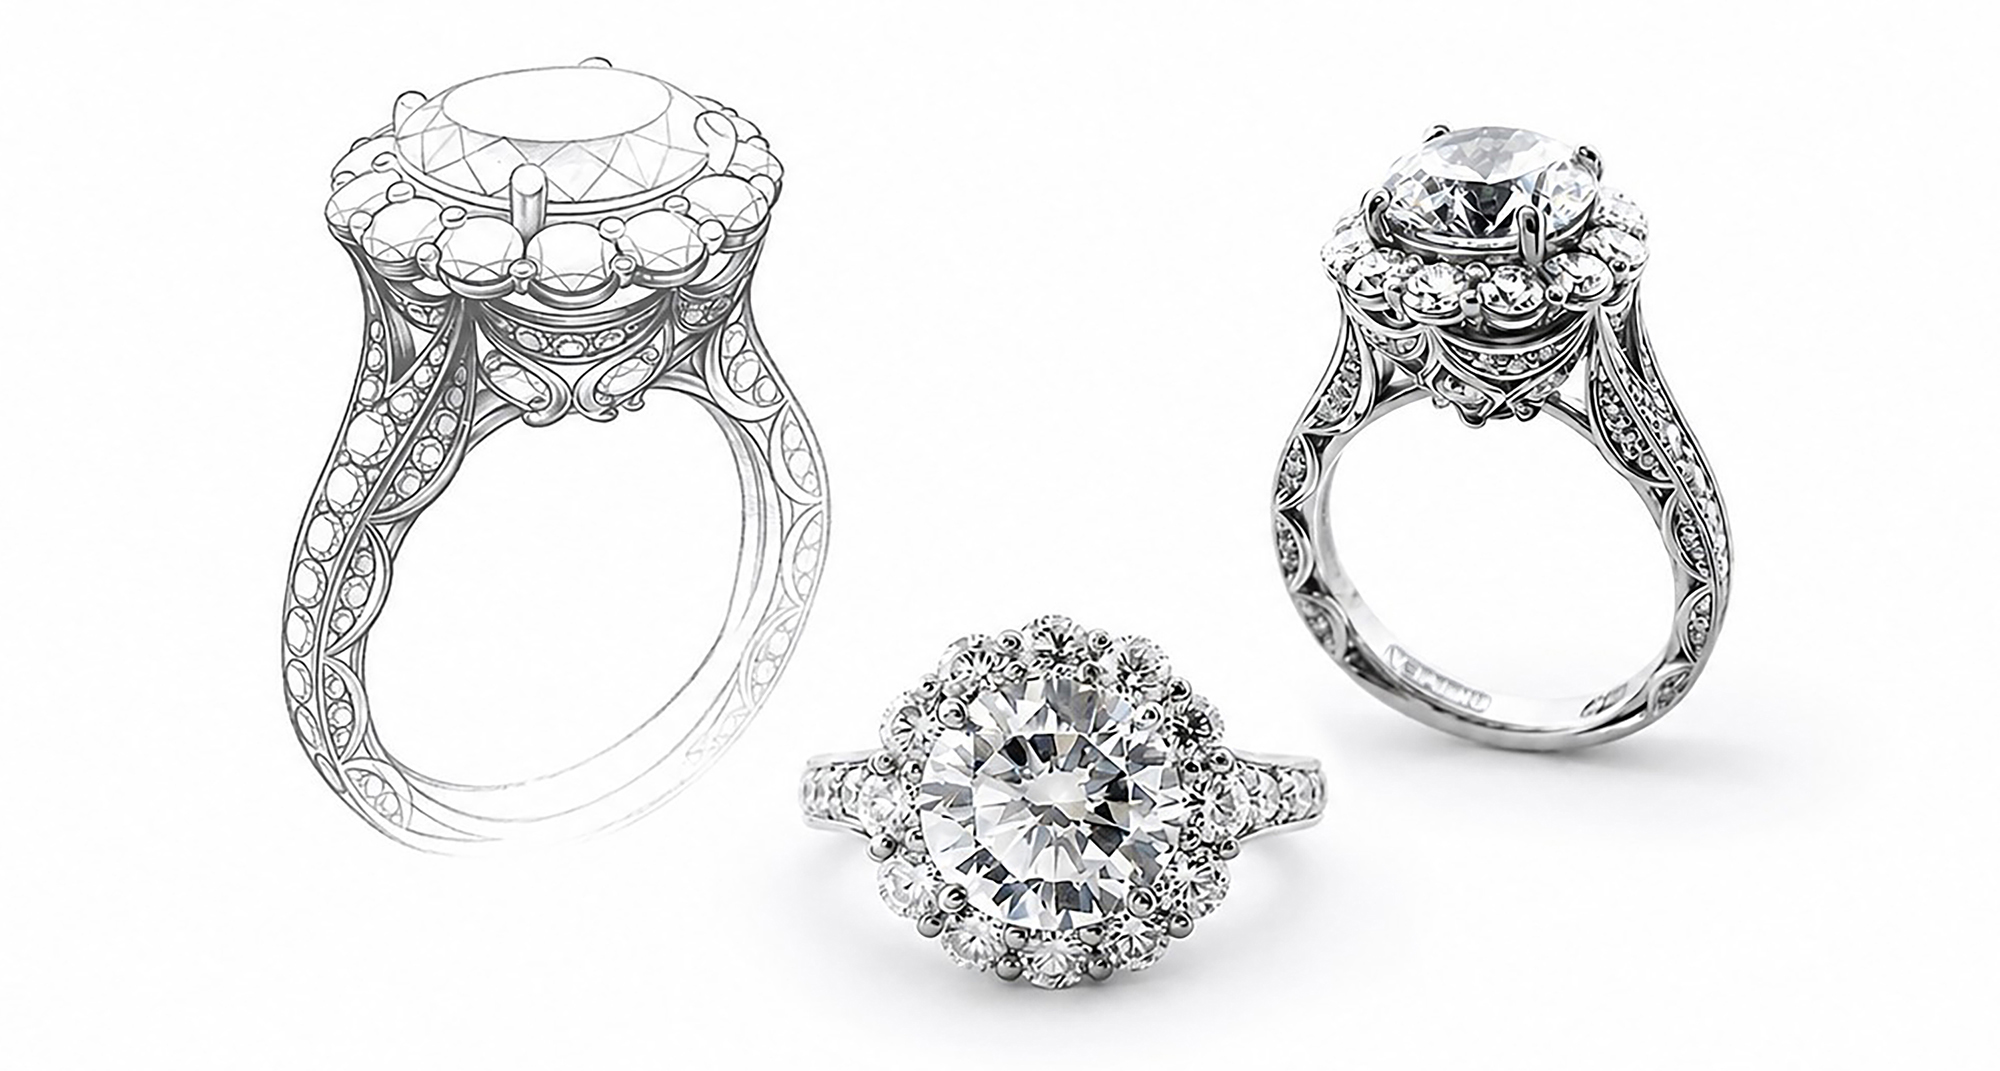
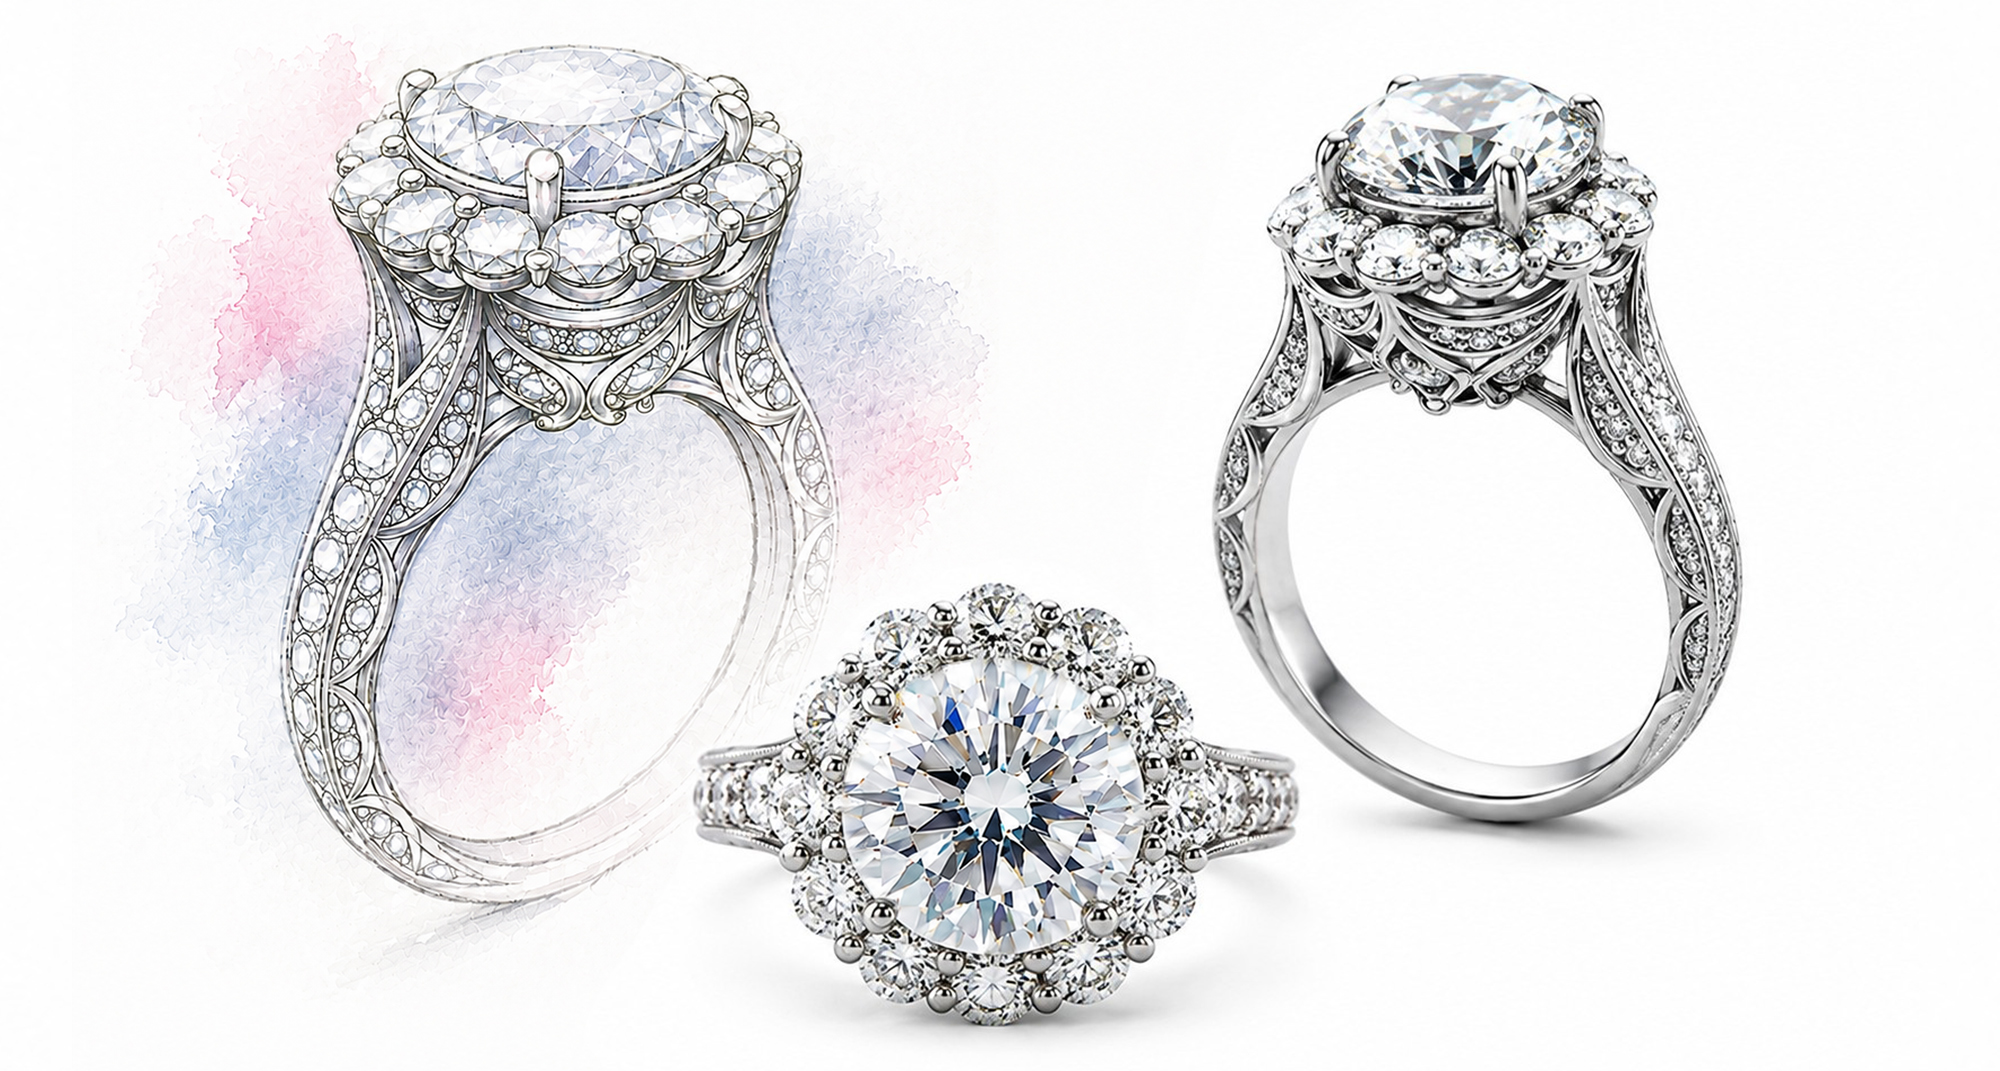
Update portfolio images and social links

Changed region(s): [[0.093, 0.0308, 0.899, 0.986], [0.279, 0.7395, 0.31, 0.7703]]

diff --git a/src/Contact.jsx b/src/Contact.jsx
@@ -576,7 +576,9 @@ export default function Contact() {
           </div>
 
           <nav className="desktopNav">
-            <span onClick={() => navigate("/sketches-design")}>Sketches & Design</span>
+            <span onClick={() => navigate("/sketches-design")}>
+              Sketches & Design
+            </span>
 
             <span onClick={() => navigate("/process")}>Process</span>
 
@@ -601,7 +603,10 @@ export default function Contact() {
 
         <div className="contactContent">
           <p className="topicLabel">Contact</p>
-          <h2 className="mainTitle">Let's Create Something Exceptional</h2>
+
+          <h2 className="mainTitle">
+            Let's Create Something Exceptional
+          </h2>
 
           <p className="introText">
             For collaborations, creative consulting, jewellery design, CAD/CAM
@@ -638,32 +643,63 @@ export default function Contact() {
           </div>
 
           <h3 className="contactName">Andrei Jiliaev</h3>
-          <p className="contactRole">Jewellery Designer • Creative Consultant</p>
+
+          <p className="contactRole">
+            Jewellery Designer • Creative Consultant
+          </p>
 
           <div className="contactDetails">
-            <a href="tel:+16043418479">T +1 604.341.8479</a>
-            <a href="mailto:andrei@andreijiliaev.com">E andrei@andreijiliaev.com</a>
-            <a href="https://www.instagram.com/andreijiliaev" target="_blank" rel="noreferrer">
-              Instagram @andreijiliaev
+            <a href="tel:+16043418479">
+              T +1 604.341.8479
+            </a>
+
+            <a href="mailto:andrei@andreijiliaev.com">
+              E andrei@andreijiliaev.com
+            </a>
+
+            <a
+              href="https://www.instagram.com/andrei_jiliaev/"
+              target="_blank"
+              rel="noreferrer"
+            >
+              Instagram @andrei_jiliaev
+            </a>
+
+            <a
+              href="https://www.linkedin.com/in/andreijiliaev"
+              target="_blank"
+              rel="noreferrer"
+            >
+              LinkedIn
             </a>
           </div>
 
-          <p className="available">Available for selected projects worldwide.</p>
+          <p className="available">
+            Available for selected projects worldwide.
+          </p>
         </div>
       </section>
 
       <footer className="bottomNav">
         {bottomNavItems.map((item, index) => (
           <div key={item} className="bottomNavItem">
-            <span className="bottomNavLink" onClick={() => navigate(getPath(item))}>
+            <span
+              className="bottomNavLink"
+              onClick={() => navigate(getPath(item))}
+            >
               {item}
             </span>
-            {index !== bottomNavItems.length - 1 && <div className="navDivider"></div>}
+
+            {index !== bottomNavItems.length - 1 && (
+              <div className="navDivider"></div>
+            )}
           </div>
         ))}
       </footer>
 
-      <div className="copyright">© ANDREI JILIAEV 2026</div>
+      <div className="copyright">
+        © ANDREI JILIAEV 2026
+      </div>
 
       <div
         className={menuOpen ? "mobileOverlay open" : "mobileOverlay"}
@@ -671,7 +707,12 @@ export default function Contact() {
       ></div>
 
       <aside className={menuOpen ? "mobilePanel open" : "mobilePanel"}>
-        <button className="closeMenu" onClick={() => setMenuOpen(false)}>✕</button>
+        <button
+          className="closeMenu"
+          onClick={() => setMenuOpen(false)}
+        >
+          ✕
+        </button>
 
         {bottomNavItems.map((item) => (
           <span
